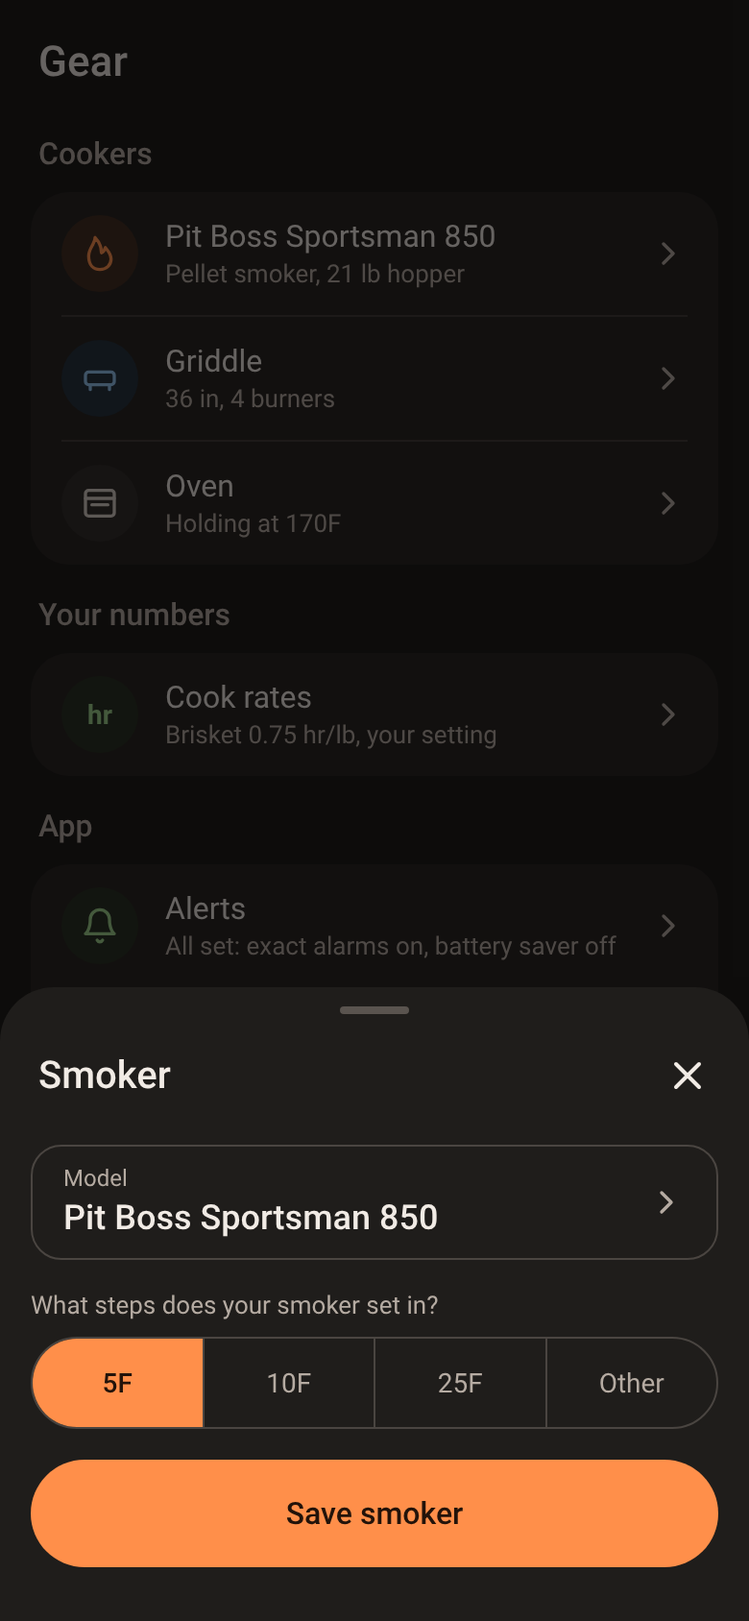
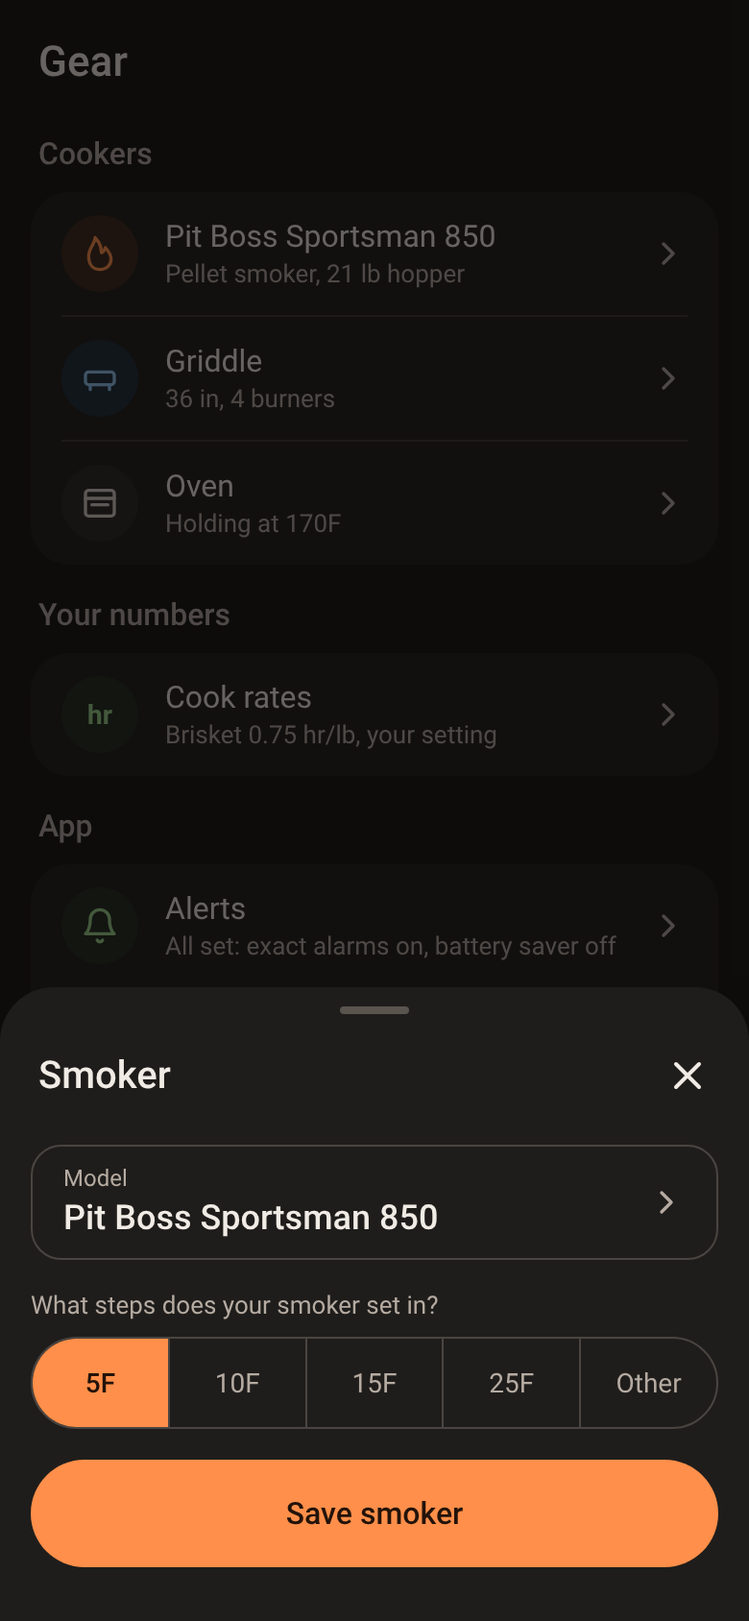
Proposal: temp step question on Setup's smoker card and in Gear (mockups only)
T-082 choices of 2026-11-17: 5 / 10 / 15 / 25 / Other in the display unit; Celsius pictures with none selected and with 5C picked.

diff --git a/docs/proposals/2026-11-17-temp-step/01d-setup-cookers-step-celsius-picked.html b/docs/proposals/2026-11-17-temp-step/01d-setup-cookers-step-celsius-picked.html
@@ -1,0 +1,86 @@
+<!doctype html>
+<html lang="en">
+<head>
+<meta charset="utf-8">
+<title>Setup: Celsius, 5C picked</title>
+<style>
+body{margin:0;background:#131211}
+*{box-sizing:border-box}
+.screen{position:relative;width:390px;height:844px;background:#131211;color:#F1EBE5;font-family:Roboto,system-ui,sans-serif;font-size:14px;line-height:1.25;overflow:hidden;display:flex;flex-direction:column}
+.avatar{width:40px;height:40px;border-radius:20px;display:flex;align-items:center;justify-content:center;flex:none}
+.t2{color:#B5ABA2}
+.label{font-size:13px;color:#B5ABA2}
+.caption{font-size:12px;color:#B5ABA2;line-height:1.4}
+.field{display:flex;flex-direction:column;gap:8px;min-width:0}
+.input{min-height:52px;border-radius:16px;border:1px solid #4A4541;padding:0 16px;display:flex;align-items:center;font-size:18px;font-variant-numeric:tabular-nums}
+.input.ph{color:#8A8079}
+.select{min-height:60px;border-radius:16px;border:1px solid #4A4541;padding:8px 16px;display:flex;align-items:center;gap:10px}
+.select .v{font-size:18px;font-weight:500}
+.seg{min-height:48px;display:flex;border-radius:24px;border:1px solid #4A4541;overflow:hidden}
+.seg span{flex:1 1 0;display:flex;align-items:center;justify-content:center;padding:4px 8px;font-size:14px;color:#B5ABA2;text-align:center;white-space:nowrap}
+.seg span+span{border-left:1px solid #4A4541}
+.seg span.on{background:#FF8F4A;color:#23130A;font-weight:500}
+.row2{display:flex;gap:12px;align-items:flex-start}
+.row2>*{flex:1 1 0}
+.card{background:#1F1D1B;border-radius:20px;flex:none}
+.div{height:1px;background:#3A3633;margin:0 16px}
+.primary{height:56px;border-radius:28px;background:#FF8F4A;color:#23130A;font-size:16px;font-weight:500;display:flex;align-items:center;justify-content:center}
+.primary.off{background:#2A2725;color:#8A8079}
+.outline{height:56px;border-radius:28px;border:1px solid #4A4541;font-size:16px;font-weight:500;display:flex;align-items:center;justify-content:center}
+.scrim{position:absolute;inset:0;background:rgba(10,9,9,.6)}
+.sheet{position:absolute;left:0;right:0;bottom:0;background:#1F1D1B;border-radius:28px 28px 0 0;display:flex;flex-direction:column}
+.sheet .grab{width:36px;height:4px;border-radius:2px;background:#5A544F;margin:10px auto 4px}
+.sheet .head{display:flex;align-items:center;justify-content:space-between;padding:4px 8px 8px 20px}
+.sheet .head b{font-size:20px;font-weight:500}
+.sheet .x{width:48px;height:48px;display:flex;align-items:center;justify-content:center}
+.sheet .body{display:flex;flex-direction:column;gap:16px;padding:4px 16px 0}
+.sheet .foot{padding:16px 16px 28px;margin-top:auto}
+.chips{display:flex;gap:8px;margin-right:-16px;overflow:hidden}
+.chip{min-height:40px;border-radius:20px;border:1px solid #4A4541;padding:0 14px;display:flex;align-items:center;font-size:14px;color:#D8CFC7;flex:none;margin:4px 0}
+.chip.on{background:#4A2E1C;border-color:transparent;color:#FFD3B5;font-weight:500}
+.grow{display:flex;align-items:center;gap:14px;min-height:64px;padding:8px 16px}
+.grow .tt{flex:1;display:flex;flex-direction:column;gap:2px;min-width:0}
+.grow .tt b{font-size:16px;font-weight:400}
+.grow .tt span{font-size:13px;color:#B5ABA2}
+h2{margin:6px 0 0;padding:0 4px;font-size:16px;font-weight:500;color:#B5ABA2}
+</style>
+</head>
+<body>
+<div class="screen">
+<div style="flex:1;min-height:0;overflow:hidden;display:flex;flex-direction:column;gap:20px;padding:24px 20px 0">
+<div style="display:flex;gap:6px;padding-top:8px;flex:none" aria-label="Step 2 of 3">
+<span style="flex:1;height:4px;border-radius:2px;background:#FF8F4A"></span>
+<span style="flex:1;height:4px;border-radius:2px;background:#FF8F4A"></span>
+<span style="flex:1;height:4px;border-radius:2px;background:#3A3633"></span>
+</div>
+<div style="display:flex;flex-direction:column;gap:8px;flex:none">
+<h1 style="margin:0;font-size:28px;font-weight:500;line-height:1.2">What do you cook on?</h1>
+<p style="margin:0;font-size:15px;color:#B5ABA2;line-height:1.4">Times and alerts are planned around your gear. You can change this later.</p>
+</div>
+
+<div class="card" style="border:2px solid #FF8F4A;overflow:hidden">
+<div style="display:flex;align-items:center;gap:14px;min-height:72px;padding:14px 16px">
+<span class="avatar" style="background:#3A2619"><svg width="20" height="20" viewBox="0 0 24 24" fill="none" stroke="#FF8F4A" stroke-width="2" stroke-linecap="round" stroke-linejoin="round" aria-hidden="true"><path d="M12 22c4 0 7-2.7 7-6.5 0-3.3-2.2-5.5-3.6-7.2-.4 1.6-1.3 2.7-2.4 3.2C13 8 12 5 9 2c0 4-4 6.7-4 11.5C5 19.3 8 22 12 22z"/></svg></span>
+<span style="flex:1;display:flex;flex-direction:column;gap:2px"><span style="font-size:16px;font-weight:500">Pellet smoker</span><span class="label" style="line-height:1.4">Hopper and grate filled from the model</span></span>
+<svg width="24" height="24" viewBox="0 0 24 24" aria-hidden="true" style="flex:none"><circle cx="12" cy="12" r="10" fill="#FF8F4A"/><path d="M7.5 12.5l3 3 6-6" fill="none" stroke="#23130A" stroke-width="2.2" stroke-linecap="round" stroke-linejoin="round"/></svg>
+</div>
+<div style="display:flex;flex-direction:column;gap:14px;padding:0 16px 16px">
+<div class="select"><span style="flex:1;display:flex;flex-direction:column;gap:2px;min-width:0"><span class="caption" style="line-height:1.25">Model</span><span class="v">Pit Boss Sportsman 850</span></span><svg width="20" height="20" viewBox="0 0 24 24" fill="none" stroke="#B5ABA2" stroke-width="2" stroke-linecap="round" stroke-linejoin="round" aria-hidden="true" style="flex:none"><path d="M9 6l6 6-6 6"/></svg></div>
+<div class="field"><span class="label">What steps does your smoker set in?</span><div class="seg" role="radiogroup"><span class="on">5C</span><span class="">10C</span><span class="">15C</span><span class="">25C</span><span class="">Other</span></div></div>
+<div class="row2"><div class="field"><span class="label">Hopper (lb)</span><div class="input">21</div></div><div class="field"><span class="label">Main grate (sq in)</span><div class="input">593</div></div></div>
+</div>
+</div>
+<div class="card">
+<div style="display:flex;align-items:center;gap:14px;min-height:76px;padding:12px 16px"><span class="avatar" style="background:#1C2B38"><svg width="20" height="20" viewBox="0 0 24 24" fill="none" stroke="#8EC2F0" stroke-width="2" stroke-linecap="round" stroke-linejoin="round" aria-hidden="true"><rect x="3" y="8" width="18" height="8" rx="2"/><path d="M6 16v3M18 16v3"/></svg></span><span style="flex:1;display:flex;flex-direction:column;gap:2px"><span style="font-size:16px;font-weight:500">Griddle</span><span class="label">Searing, chicken, wings</span></span><span style="width:28px;height:28px;border-radius:6px;background:#FF8F4A;display:flex;align-items:center;justify-content:center;flex:none"><svg width="20" height="20" viewBox="0 0 24 24" fill="none" stroke="#23130A" stroke-width="2.4" stroke-linecap="round" stroke-linejoin="round"><path d="M5.5 12.5l4.5 4.5 8.5-9"/></svg></span></div>
+<div class="div"></div>
+<div style="display:flex;align-items:center;gap:14px;min-height:76px;padding:12px 16px"><span class="avatar" style="background:#2A2725"><svg width="20" height="20" viewBox="0 0 24 24" fill="none" stroke="#D8CFC7" stroke-width="2" stroke-linecap="round" stroke-linejoin="round" aria-hidden="true"><rect x="3" y="4" width="18" height="16" rx="2"/><path d="M3 9h18M7 13h10"/></svg></span><span style="flex:1;display:flex;flex-direction:column;gap:2px"><span style="font-size:16px;font-weight:500">Oven for holding</span><span class="label">Lowest setting 76C</span></span><span style="width:28px;height:28px;border-radius:6px;background:#FF8F4A;display:flex;align-items:center;justify-content:center;flex:none"><svg width="20" height="20" viewBox="0 0 24 24" fill="none" stroke="#23130A" stroke-width="2.4" stroke-linecap="round" stroke-linejoin="round"><path d="M5.5 12.5l4.5 4.5 8.5-9"/></svg></span></div>
+</div>
+</div>
+<div style="display:flex;gap:12px;padding:16px 20px 24px;flex:none">
+<div class="outline" style="flex:1">Back</div>
+<div class="primary" style="flex:2">Continue</div>
+</div>
+
+</div>
+</body>
+</html>

diff --git a/docs/proposals/2026-11-17-temp-step/16b-gear-step-alt.html b/docs/proposals/2026-11-17-temp-step/16b-gear-step-alt.html
@@ -50,7 +50,7 @@ h2{margin:6px 0 0;padding:0 4px;font-size:16px;font-weight:500;color:#B5ABA2}
 <div style="height:64px;display:flex;align-items:center;padding:0 20px;flex:none"><h1 style="margin:0;font-size:22px;font-weight:500">Gear</h1></div>
 <div style="flex:1;display:flex;flex-direction:column;gap:10px;padding:0 16px;min-height:0;overflow:hidden">
 <h2>Cookers</h2>
-<div class="card"><div class="grow"><span class="avatar" style="background:#3A2619"><svg width="20" height="20" viewBox="0 0 24 24" fill="none" stroke="#FF8F4A" stroke-width="2" stroke-linecap="round" stroke-linejoin="round" aria-hidden="true"><path d="M12 22c4 0 7-2.7 7-6.5 0-3.3-2.2-5.5-3.6-7.2-.4 1.6-1.3 2.7-2.4 3.2C13 8 12 5 9 2c0 4-4 6.7-4 11.5C5 19.3 8 22 12 22z"/></svg></span><span class="tt"><b>Pit Boss Sportsman 850</b><span>Pellet smoker, 21 lb hopper</span></span><svg width="20" height="20" viewBox="0 0 24 24" fill="none" stroke="#B5ABA2" stroke-width="2" stroke-linecap="round" stroke-linejoin="round" aria-hidden="true" style="flex:none"><path d="M9 6l6 6-6 6"/></svg></div><div style="padding:2px 16px 16px"><div class="field"><span class="label">What steps does your smoker set in?</span><div class="seg" role="radiogroup"><span class="on">5F</span><span class="">10F</span><span class="">25F</span><span class="">Other</span></div></div></div><div class="div"></div>
+<div class="card"><div class="grow"><span class="avatar" style="background:#3A2619"><svg width="20" height="20" viewBox="0 0 24 24" fill="none" stroke="#FF8F4A" stroke-width="2" stroke-linecap="round" stroke-linejoin="round" aria-hidden="true"><path d="M12 22c4 0 7-2.7 7-6.5 0-3.3-2.2-5.5-3.6-7.2-.4 1.6-1.3 2.7-2.4 3.2C13 8 12 5 9 2c0 4-4 6.7-4 11.5C5 19.3 8 22 12 22z"/></svg></span><span class="tt"><b>Pit Boss Sportsman 850</b><span>Pellet smoker, 21 lb hopper</span></span><svg width="20" height="20" viewBox="0 0 24 24" fill="none" stroke="#B5ABA2" stroke-width="2" stroke-linecap="round" stroke-linejoin="round" aria-hidden="true" style="flex:none"><path d="M9 6l6 6-6 6"/></svg></div><div style="padding:2px 16px 16px"><div class="field"><span class="label">What steps does your smoker set in?</span><div class="seg" role="radiogroup"><span class="on">5F</span><span class="">10F</span><span class="">15F</span><span class="">25F</span><span class="">Other</span></div></div></div><div class="div"></div>
 <div class="grow"><span class="avatar" style="background:#1C2B38"><svg width="20" height="20" viewBox="0 0 24 24" fill="none" stroke="#8EC2F0" stroke-width="2" stroke-linecap="round" stroke-linejoin="round" aria-hidden="true"><rect x="3" y="8" width="18" height="8" rx="2"/><path d="M6 16v3M18 16v3"/></svg></span><span class="tt"><b>Griddle</b><span>36 in, 4 burners</span></span><svg width="20" height="20" viewBox="0 0 24 24" fill="none" stroke="#B5ABA2" stroke-width="2" stroke-linecap="round" stroke-linejoin="round" aria-hidden="true" style="flex:none"><path d="M9 6l6 6-6 6"/></svg></div><div class="div"></div>
 <div class="grow"><span class="avatar" style="background:#2A2725"><svg width="20" height="20" viewBox="0 0 24 24" fill="none" stroke="#D8CFC7" stroke-width="2" stroke-linecap="round" stroke-linejoin="round" aria-hidden="true"><rect x="3" y="4" width="18" height="16" rx="2"/><path d="M3 9h18M7 13h10"/></svg></span><span class="tt"><b>Oven</b><span>Holding at 170F</span></span><svg width="20" height="20" viewBox="0 0 24 24" fill="none" stroke="#B5ABA2" stroke-width="2" stroke-linecap="round" stroke-linejoin="round" aria-hidden="true" style="flex:none"><path d="M9 6l6 6-6 6"/></svg></div></div>
 <h2>Your numbers</h2>

diff --git a/docs/proposals/2026-11-17-temp-step/16-gear-step.html b/docs/proposals/2026-11-17-temp-step/16-gear-step.html
@@ -67,7 +67,7 @@ h2{margin:6px 0 0;padding:0 4px;font-size:16px;font-weight:500;color:#B5ABA2}
 <span style="display:flex;flex-direction:column;align-items:center;justify-content:center;gap:4px;font-size:12px;color:#B5ABA2;font-weight:400"><span style="width:64px;height:32px;border-radius:16px;background:transparent;display:flex;align-items:center;justify-content:center"><svg width="22" height="22" viewBox="0 0 24 24" fill="none" stroke="currentColor" stroke-width="2" stroke-linecap="round"><circle cx="12" cy="13" r="8"/><path d="M12 9v4l2.5 2.5M9 2h6"/></svg></span>Cook</span>
 <span style="display:flex;flex-direction:column;align-items:center;justify-content:center;gap:4px;font-size:12px;color:#F1EBE5;font-weight:500"><span style="width:64px;height:32px;border-radius:16px;background:#4A2E1C;display:flex;align-items:center;justify-content:center"><svg width="22" height="22" viewBox="0 0 24 24" fill="none" stroke="#FFB07F" stroke-width="2" stroke-linecap="round"><path d="M4 21v-7M4 10V3M12 21v-9M12 8V3M20 21v-5M20 12V3M1 14h6M9 8h6M17 16h6"/></svg></span>Gear</span>
 </nav>
-<div class="scrim"></div><div class="sheet" style=""><div class="grab"></div><div class="head"><b>Smoker</b><span class="x"><svg width="24" height="24" viewBox="0 0 24 24" fill="none" stroke="#F1EBE5" stroke-width="2" stroke-linecap="round"><path d="M6 6l12 12M18 6L6 18"/></svg></span></div><div class="body"><div class="select"><span style="flex:1;display:flex;flex-direction:column;gap:2px;min-width:0"><span class="caption" style="line-height:1.25">Model</span><span class="v">Pit Boss Sportsman 850</span></span><svg width="20" height="20" viewBox="0 0 24 24" fill="none" stroke="#B5ABA2" stroke-width="2" stroke-linecap="round" stroke-linejoin="round" aria-hidden="true" style="flex:none"><path d="M9 6l6 6-6 6"/></svg></div><div class="field"><span class="label">What steps does your smoker set in?</span><div class="seg" role="radiogroup"><span class="on">5F</span><span class="">10F</span><span class="">25F</span><span class="">Other</span></div></div></div><div class="foot"><div class="primary">Save smoker</div></div></div>
+<div class="scrim"></div><div class="sheet" style=""><div class="grab"></div><div class="head"><b>Smoker</b><span class="x"><svg width="24" height="24" viewBox="0 0 24 24" fill="none" stroke="#F1EBE5" stroke-width="2" stroke-linecap="round"><path d="M6 6l12 12M18 6L6 18"/></svg></span></div><div class="body"><div class="select"><span style="flex:1;display:flex;flex-direction:column;gap:2px;min-width:0"><span class="caption" style="line-height:1.25">Model</span><span class="v">Pit Boss Sportsman 850</span></span><svg width="20" height="20" viewBox="0 0 24 24" fill="none" stroke="#B5ABA2" stroke-width="2" stroke-linecap="round" stroke-linejoin="round" aria-hidden="true" style="flex:none"><path d="M9 6l6 6-6 6"/></svg></div><div class="field"><span class="label">What steps does your smoker set in?</span><div class="seg" role="radiogroup"><span class="on">5F</span><span class="">10F</span><span class="">15F</span><span class="">25F</span><span class="">Other</span></div></div></div><div class="foot"><div class="primary">Save smoker</div></div></div>
 </div>
 </body>
 </html>

diff --git a/docs/proposals/2026-11-17-temp-step/01-setup-cookers-step.html b/docs/proposals/2026-11-17-temp-step/01-setup-cookers-step.html
@@ -66,7 +66,7 @@ h2{margin:6px 0 0;padding:0 4px;font-size:16px;font-weight:500;color:#B5ABA2}
 </div>
 <div style="display:flex;flex-direction:column;gap:14px;padding:0 16px 16px">
 <div class="select"><span style="flex:1;display:flex;flex-direction:column;gap:2px;min-width:0"><span class="caption" style="line-height:1.25">Model</span><span class="v">Pit Boss Sportsman 850</span></span><svg width="20" height="20" viewBox="0 0 24 24" fill="none" stroke="#B5ABA2" stroke-width="2" stroke-linecap="round" stroke-linejoin="round" aria-hidden="true" style="flex:none"><path d="M9 6l6 6-6 6"/></svg></div>
-<div class="field"><span class="label">What steps does your smoker set in?</span><div class="seg" role="radiogroup"><span class="on">5F</span><span class="">10F</span><span class="">25F</span><span class="">Other</span></div></div>
+<div class="field"><span class="label">What steps does your smoker set in?</span><div class="seg" role="radiogroup"><span class="on">5F</span><span class="">10F</span><span class="">15F</span><span class="">25F</span><span class="">Other</span></div></div>
 <div class="row2"><div class="field"><span class="label">Hopper (lb)</span><div class="input">21</div></div><div class="field"><span class="label">Main grate (sq in)</span><div class="input">593</div></div></div>
 </div>
 </div>

diff --git a/docs/proposals/2026-11-17-temp-step/01b-setup-step-other.html b/docs/proposals/2026-11-17-temp-step/01b-setup-step-other.html
@@ -66,7 +66,7 @@ h2{margin:6px 0 0;padding:0 4px;font-size:16px;font-weight:500;color:#B5ABA2}
 </div>
 <div style="display:flex;flex-direction:column;gap:14px;padding:0 16px 16px">
 <div class="select"><span style="flex:1;display:flex;flex-direction:column;gap:2px;min-width:0"><span class="caption" style="line-height:1.25">Model</span><span class="v">Pit Boss Sportsman 850</span></span><svg width="20" height="20" viewBox="0 0 24 24" fill="none" stroke="#B5ABA2" stroke-width="2" stroke-linecap="round" stroke-linejoin="round" aria-hidden="true" style="flex:none"><path d="M9 6l6 6-6 6"/></svg></div>
-<div class="field"><span class="label">What steps does your smoker set in?</span><div class="seg" role="radiogroup"><span class="">5F</span><span class="">10F</span><span class="">25F</span><span class="on">Other</span></div></div>
+<div class="field"><span class="label">What steps does your smoker set in?</span><div class="seg" role="radiogroup"><span class="">5F</span><span class="">10F</span><span class="">15F</span><span class="">25F</span><span class="on">Other</span></div></div>
 <div class="row2"><div class="field"><span class="label">Hopper (lb)</span><div class="input">21</div></div><div class="field"><span class="label">Main grate (sq in)</span><div class="input">593</div></div></div>
 </div>
 </div>

diff --git a/docs/proposals/2026-11-17-temp-step/01e-setup-step-other-small.html b/docs/proposals/2026-11-17-temp-step/01e-setup-step-other-small.html
@@ -66,7 +66,7 @@ h2{margin:6px 0 0;padding:0 4px;font-size:16px;font-weight:500;color:#B5ABA2}
 </div>
 <div style="display:flex;flex-direction:column;gap:14px;padding:0 16px 16px">
 <div class="select"><span style="flex:1;display:flex;flex-direction:column;gap:2px;min-width:0"><span class="caption" style="line-height:1.25">Model</span><span class="v">Pit Boss Sportsman 850</span></span><svg width="20" height="20" viewBox="0 0 24 24" fill="none" stroke="#B5ABA2" stroke-width="2" stroke-linecap="round" stroke-linejoin="round" aria-hidden="true" style="flex:none"><path d="M9 6l6 6-6 6"/></svg></div>
-<div class="field"><span class="label">What steps does your smoker set in?</span><div class="seg" role="radiogroup"><span class="">5F</span><span class="">10F</span><span class="">25F</span><span class="on">Other</span></div></div>
+<div class="field"><span class="label">What steps does your smoker set in?</span><div class="seg" role="radiogroup"><span class="">5F</span><span class="">10F</span><span class="">15F</span><span class="">25F</span><span class="on">Other</span></div></div>
 <div class="row2"><div class="field"><span class="label">Hopper (lb)</span><div class="input">21</div></div><div class="field"><span class="label">Main grate (sq in)</span><div class="input">593</div></div></div>
 </div>
 </div>

diff --git a/docs/proposals/2026-11-17-temp-step/01c-setup-cookers-step-celsius.html b/docs/proposals/2026-11-17-temp-step/01c-setup-cookers-step-celsius.html
@@ -66,7 +66,7 @@ h2{margin:6px 0 0;padding:0 4px;font-size:16px;font-weight:500;color:#B5ABA2}
 </div>
 <div style="display:flex;flex-direction:column;gap:14px;padding:0 16px 16px">
 <div class="select"><span style="flex:1;display:flex;flex-direction:column;gap:2px;min-width:0"><span class="caption" style="line-height:1.25">Model</span><span class="v">Pit Boss Sportsman 850</span></span><svg width="20" height="20" viewBox="0 0 24 24" fill="none" stroke="#B5ABA2" stroke-width="2" stroke-linecap="round" stroke-linejoin="round" aria-hidden="true" style="flex:none"><path d="M9 6l6 6-6 6"/></svg></div>
-<div class="field"><span class="label">What steps does your smoker set in?</span><div class="seg" role="radiogroup"><span class="">1C</span><span class="">Other</span></div></div>
+<div class="field"><span class="label">What steps does your smoker set in?</span><div class="seg" role="radiogroup"><span class="">5C</span><span class="">10C</span><span class="">15C</span><span class="">25C</span><span class="">Other</span></div></div>
 <div class="row2"><div class="field"><span class="label">Hopper (lb)</span><div class="input">21</div></div><div class="field"><span class="label">Main grate (sq in)</span><div class="input">593</div></div></div>
 </div>
 </div>

diff --git a/docs/proposals/2026-11-17-temp-step/README.md b/docs/proposals/2026-11-17-temp-step/README.md
@@ -1,6 +1,6 @@
-# Proposal: temp step question on Setup's smoker card and in Gear
+# Proposal: temp step question on Setup's smoker card and in Gear (T-082)
 
-Mockups only (Jason's decision of 2026-11-17). Nothing in `docs/mockups/`, SPEC, TASKS or `src/` is changed.
+Mockups only (Jason's decisions of 2026-11-17). Nothing in `docs/mockups/`, SPEC, TASKS or `src/` is changed.
 Each PNG is 390x844 at 2x with its `.html` source next to it (plain HTML, no canvas runtime; render with
 `google-chrome --headless=new --force-device-scale-factor=2 --window-size=390,844 --screenshot=out.png file.html`).
 
@@ -9,16 +9,20 @@ question is mocked there. The pictures follow the built screens (`docs/fidelity/
 `rn-16-gear.png`, `rn-18-griddle.png`) where they differ from the approved mockups: checkboxes for griddle and
 oven, no "Add another cooker", the built Gear rows.
 
+The choices are 5 / 10 / 15 / 25 / Other in the user's display unit, stored as F (5C = 9F, 10C = 18F,
+15C = 27F, 25C = 45F). Other opens the existing manual form.
+
 Kit parts used: `Field` (label 13), `Segmented`, `SelectField`, `InputField`, `Chips`, `Sheet`, `Button`. Nothing new.
 
 ## Pictures
 
 | File | Shows |
 | --- | --- |
-| `01-setup-cookers-step.png` | Setup, cookers step, Pit Boss Sportsman 850 picked. Under Model: "What steps does your smoker set in?" and a Segmented 5F / 10F / 25F / Other, 5F selected (the catalog's step). |
+| `01-setup-cookers-step.png` | Setup, cookers step, Pit Boss Sportsman 850 picked, Fahrenheit. Under Model: "What steps does your smoker set in?" and a Segmented 5F / 10F / 15F / 25F / Other, 5F selected (the catalog's step). |
 | `01b-setup-step-other.png` | Other chosen: the existing manual form (`SmokerForm`) as it would open. Title is the model name (no Name field), range 180 to 500 from the model, grate and hopper from the card, Temp step empty, Dial settings below, Save smoker off until a step or two settings are in. |
-| `01d-setup-step-other-small.png` | Not asked for, cheap to add: the smaller alternative for Other (see "Problem with the whole form"). |
-| `01c-setup-cookers-step-celsius.png` | The same card with Celsius display: no F anywhere, the oven reads 76C. The Segmented shows only what the research below supports: 1C / Other, nothing selected (see open questions 1 and 2). |
+| `01c-setup-cookers-step-celsius.png` | The same card in Celsius, no F anywhere (oven reads 76C). Segments 5C / 10C / 15C / 25C / Other. The catalog step is 5F, which is none of them exactly, so nothing is selected. |
+| `01d-setup-cookers-step-celsius-picked.png` | Celsius after the user taps 5C (stored as 9F). With a C step the smoker's settings start at the first multiple of the step at or above its lowest temp in C: this model's 180F is 82.2C, so a 5C grid starts at 85C. |
+| `01e-setup-step-other-small.png` | Not asked for, cheap to add: a smaller alternative for Other (see "Problem with the whole form"). |
 | `16-gear-step.png` | Gear, recommended: the smoker row opens a Smoker sheet with the Model field (opens the picker) and the question. |
 | `16b-gear-step-alt.png` | Gear, alternative: the question sits under the smoker row inside the Cookers card. |
 
@@ -31,6 +35,14 @@ every row below it down about 90 points.
 
 Cost of the sheet: changing the model takes one more tap (row, then Model) than today.
 
+## Font scale
+
+Five segments checked in the Setup card (the narrowest place, 62 points per segment) with the type scaled in
+the same HTML: they fit on one line at 100%, 115% and 130%, nothing wraps or is cut. At 130% "Other" has
+about 2 points to spare, so it should be checked on the emulator at 130% when built. The C labels are the same
+width as the F ones. At 130% the model name wraps to two lines and the screen scrolls (the oven row goes under
+the buttons).
+
 ## Problem with the whole form for Other (01b)
 
 Shown as decided, but it has real problems for a model picked from the catalog:
@@ -39,60 +51,43 @@ Shown as decided, but it has real problems for a model picked from the catalog:
 - Type chips let a Pit Boss be turned into a kamado.
 - Editing the range or saving through `manualSmoker` would make a checked model read "Specs entered by you".
 - Today the form shows "No checked specs for this model yet..." whenever it starts from a catalog id. That is false here, so the mock leaves the box out; the build has to as well.
-- Close leaves Other selected with no step behind it (see question 4).
+- Close leaves Other selected with no step behind it (see question 3).
 
-Smaller alternative (`01d`): Other opens a short sheet with only the two fields that answer the question,
+Smaller alternative (`01e`): Other opens a short sheet with only the two fields that answer the question,
 Temp step and Dial settings, same labels, note and Save smoker button as the form. Range, type, grate and hopper stay as
 the catalog has them. The same sheet would serve Gear.
 
-## Font scale
+## Celsius steps, sourced so far
 
-Checked the F card at 115% and 130% (same HTML, type scaled): 5F / 10F / 25F / Other fit on one line with room
-left at both. The model name wraps to two lines at 130% and the screen scrolls (the oven row goes under the
-buttons); nothing is cut. The Celsius labels in the picture (1C, Other) are shorter. If a Celsius set of four
-ever includes a label like "10C" it is the same width as "10F", so it fits too.
-
-## Celsius steps, sourced
-
-Searched 2026-11-17 (manuals, support pages, product pages). Only one controller has a stated Celsius step.
-For every other brand a Celsius display exists but no page found says how far one press moves in C. No C step
-below is worked out from an F step.
+Searched 2026-11-17, stopped on Jason's decision. Only one controller has a stated Celsius step. For the
+others a Celsius display exists but no page found says how far one press moves in C. No C step below is worked
+out from an F step.
 
 | Brand | Model or controller | C step or C presets | Source and what it says |
 | --- | --- | --- | --- |
 | Z Grills | "Wireless Controller" by Z Grills Australia, for 450A, 7002B and 700E series sold in Australia | 1C | https://help.zgrills.com.au/?p=3624 : "75 to 240℃ (167 to 465℉) temperature range adjustable in 1 degree increments"; "Rotate the knob faster to change more quickly, or slowly for 1 degree increments"; units menu "Celsius (℃), Fahrenheit (℉)". |
 | Z Grills | US controllers (700D4E, 1000D4E Wi-Fi, dial models) | Not found | The app manual says the board can switch to C and gives the range 160 to 450F (71 to 232C), no step (https://bbqgrillpeople.com/wp-content/uploads/2024/06/APP_Instructions.pdf, from the search summary, not read in full). |
-| Pit Boss | Sportsman dial board (manual for PB0500SP, PB0820SP, PB1000SP and others) | Ten dial presets between 82 and 260C. The ten values are not listed. | https://cdn.pellet-stove-parts-4less.com//SPFL/manufacturers/Pit%20Boss/Grill/Models/Sportsman%20500/pit-boss-sportsman-500-owners-manual.pdf : "select from any of the ten preset temperatures, between 82-260°C / 180-500°F"; "Press and hold the button for two seconds to switch to Celsius (ºC) or to Fahrenheit (ºF)". |
-| Pit Boss | Wi-Fi and PID boards (Sportsman 850 PB850SPW2, Pro Series, Navigator) | Not found | Product pages give 5F steps only (for example https://www.pitboss-grills.com/products/pit-boss-pro-series-1600-wood-pellet-grill-1600ps4). Owners report 25F steps on a PRO850 (https://pitbossforum.com/threads/pb850ps2-temperature-increments.679/page-2). Nothing on C. |
-| Traeger | WiFIRE, touchscreen, Woodridge controllers | Not found | https://support.traeger.com/hc/en-us/articles/4407213234843 says temperature changes "in 5° increments" with no unit; units can be switched to C on the controller (https://support.traeger.com/hc/en-us/articles/4407213217179). Both pages refused a direct read (403), so this is from the search summaries. No page says whether Celsius moves in 5C. |
+| Pit Boss | Sportsman dial board (manual for PB0500SP, PB0820SP, PB1000SP and others) | Ten dial presets between 82 and 260C. The ten values are not listed. | https://cdn.pellet-stove-parts-4less.com//SPFL/manufacturers/Pit%20Boss/Grill/Models/Sportsman%20500/pit-boss-sportsman-500-owners-manual.pdf (read): "select from any of the ten preset temperatures, between 82-260°C / 180-500°F"; "Press and hold the button for two seconds to switch to Celsius (ºC) or to Fahrenheit (ºF)". |
+| Pit Boss | Wi-Fi and PID boards (Sportsman 850 PB850SPW2, Pro Series, Navigator) | Not found | Product pages give 5F steps only (for example https://www.pitboss-grills.com/products/pit-boss-pro-series-1600-wood-pellet-grill-1600ps4, search summary). Owners report 25F steps on a PRO850 (https://pitbossforum.com/threads/pb850ps2-temperature-increments.679/page-2, read). Nothing on C. |
+| Traeger | WiFIRE, touchscreen, Woodridge controllers | Not found | https://support.traeger.com/hc/en-us/articles/4407213234843 says temperature changes "in 5° increments" with no unit; units can be switched to C on the controller (https://support.traeger.com/hc/en-us/articles/4407213217179). Both pages refused a direct read (403), so this is from the search summaries. |
 | Weber | Searwood | Not found | Weber support gives the range 95 to 315C, set by turning the dial (https://contact-emea.weber.com/hc/en-us/articles/36966030002717-Understanding-Temperature-Modes-Set-Temperature-SmokeBoost-and-Manual-Mode, search summary). The Searwood 600 quick start guide (https://content-images.weber.com/downloads/Searwood-600-Quick-setting-guide.pdf, read) gives ranges such as 105 to 135C and 190 to 230C, no step. |
-| Weber | SmokeFire | Not found | Range 200 to 600F on weber.com; the 2020 cheat sheet (https://tvwbb.com/docs/2020-weber-smokefire-cheatsheet.pdf, read) says "200-600 degree temperature range", no step and no C. |
+| Weber | SmokeFire | Not found | The 2020 cheat sheet (https://tvwbb.com/docs/2020-weber-smokefire-cheatsheet.pdf, read) says "200-600 degree temperature range", no step and no C. |
 | Camp Chef | Gen 2 controller PG24-82WFR | Not found | https://assets.pellet-stove-parts-4less.com/website/instructions/PG24-82WFR.pdf (read): "UNITS: This option is for changing the degrees from Fahrenheit to Celsius". No step in either unit. |
 | Green Mountain Grills | Prime, Choice (app) | Not found | The Choice app manual lists "Toggle Temperature Settings °F/°C" (https://greenmountaingrills.com/wp-content/uploads/2024/04/Choice-App-Manual-Web.pdf, search summary). No step. |
-| recteq | RT-590, RT-700 | Not found | No page found that mentions a Celsius display or a C step. |
-| Oklahoma Joe's | Pellet grills | Not found | No page found. |
-| Broil King (found while searching, common in Canada) | Regal and other pellet grills | Not found for C | The manual says the dial moves "in 10-degree increments" with 1 degree fine adjustment and that the grill switches between F and C; it does not say the steps in C (https://manuals.plus/m/9ef107fc3c5c3a7e4c54b004e594a721bda6a59218b5c3aa382f599cf0d3e50b, search summary). |
+| recteq, Oklahoma Joe's | Pellet grills | Not found | No page found that gives a C step. |
+| Broil King (found while searching) | Regal and other pellet grills | Not found for C | The manual says the dial moves "in 10-degree increments" with 1 degree fine adjustment and that the grill switches between F and C; it does not say the steps in C (https://manuals.plus/m/9ef107fc3c5c3a7e4c54b004e594a721bda6a59218b5c3aa382f599cf0d3e50b, search summary). |
 
-What would settle the rest: an owner switching the controller to Celsius and pressing up once (Jason's PB850SPW2 is the first one to try).
-
-Prefill from the catalog, as the picture has it: the only sourced Celsius choice is 1C, and no catalog entry has
-a step it maps from. Both verified catalog models (Pit Boss 820, Sportsman 850) have `tempStepF: 5`, which has no
-sourced Celsius partner, so nothing is selected in the picture.
-
-Where the F and C grids do not meet: 5F is 2.78C, 10F is 5.56C, 25F is 13.89C, so a controller that steps in F
-never moves a whole number of C per press, and a controller that steps 1C or 5C from a whole-C base lands on
-temps that are not whole F (1C is 1.8F, 5C is 9F). Stored temps are whole F today.
+Note for the choices: the one sourced C step (1C) is not among 5 / 10 / 15 / 25, so that controller goes through Other.
 
 ## Open questions for Jason
 
-1. Celsius choices: only 1C is sourced. Options: (a) show 1C / Other until more are checked, (b) hold the Celsius Segmented back and send Celsius users to Other, (c) Jason checks his own controller in C mode and we add what it shows.
-2. Celsius prefill for a catalog model whose step is 5F. Options: (a) nothing selected, as in the picture, (b) Other selected, (c) decided after the engine check on holding a C step. Not solved here.
-3. F and C grids do not map (see above): store the step in the unit it was picked in, or keep F only and accept settings that are not whole C. With the main session's engine check.
-4. Saved step is none of 5/10/25 (say 15F), or the smoker has dial settings. Options: (a) Other selected and the value shown as a caption under the Segmented ("15F" or "Dial settings: 180, 225, 250"), (b) Other selected with no value shown, (c) the odd step becomes a fifth segment.
-5. Other is tapped and the sheet is closed without saving. Options: (a) the Segmented goes back to the step it had, (b) Other stays selected and Continue is blocked.
-6. Choosing a step other than the catalog's on a checked model: does the card still read "Hopper and grate filled from the model"? Options: (a) yes, the line is only about hopper and grate, (b) it changes to "Specs entered by you".
-7. Models that are not checked (they already go through the form, which asks for the step): (a) show the question on their card too, prefilled from what the user typed, (b) leave it off and keep the form as the one place.
-8. Smokers with no step at all (kamado, drum, offset): (a) hide the question, (b) show it.
-9. Other in Setup: the whole form as decided (01b) or the two-field sheet (01d)?
-10. Gear: the sheet (16, recommended) or inline (16b)? If the sheet: its title "Smoker" is new copy, and should it also carry Hopper and Main grate, which Gear cannot edit today?
-11. Changing the step can leave the plan's smoker temp off the new grid (225F is not a setting when the steps are 10F up from 180F). Options: (a) snap to the nearest setting and say so on Plan, (b) keep the temp until the user next opens the temp menu.
+1. Temp menu in Celsius: a set point label is rounded to 2C today (`engine/units.ts` `SET_POINT_STEP_C = 2`, Jason's rule of 2026-11-14, SPEC section 1 "Units"), so a 5C-step smoker's menu would read 80, 86, 90, 96. With a C step chosen the menu should show the grid's own values (85, 90, 95). Options: (a) the 2C rounding is skipped when the smoker has a C step, (b) keep the rule and accept the odd labels.
+2. Saved step is none of the four (say 20F, or 9F seen in Fahrenheit display), or the smoker has dial settings. Options: (a) Other selected and the value shown as a caption under the Segmented ("20F" or "Dial settings: 180, 225, 250"), (b) Other selected with no value shown, (c) nothing selected, as for 5F in Celsius.
+3. Other is tapped and the sheet is closed without saving. Options: (a) the Segmented goes back to what it had, (b) Other stays selected and Continue is blocked.
+4. Nothing selected in Celsius (01c): can the user Continue without answering (the 5F catalog step stays), or must they pick?
+5. Choosing a step other than the catalog's on a checked model: does the card still read "Hopper and grate filled from the model"? Options: (a) yes, the line is only about hopper and grate, (b) it changes to "Specs entered by you".
+6. Models that are not checked (they already go through the form, which asks for the step): (a) show the question on their card too, prefilled from what the user typed, (b) leave it off and keep the form as the one place.
+7. Smokers with no step at all (kamado, drum, offset): (a) hide the question, (b) show it.
+8. Other in Setup: the whole form as decided (01b) or the two-field sheet (01e)?
+9. Gear: the sheet (16, recommended) or inline (16b)? If the sheet: its title "Smoker" is new copy, and should it also carry Hopper and Main grate, which Gear cannot edit today?
+10. Changing the step can leave the plan's smoker temp off the new grid (225F is not a setting when the steps are 10F up from 180F). Options: (a) snap to the nearest setting and say so on Plan, (b) keep the temp until the user next opens the temp menu.
